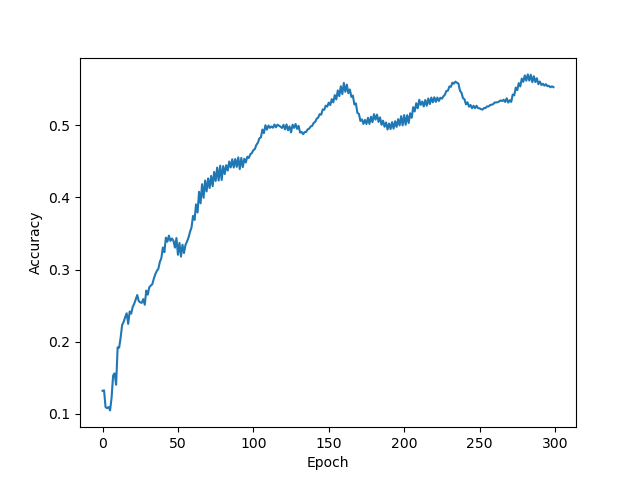
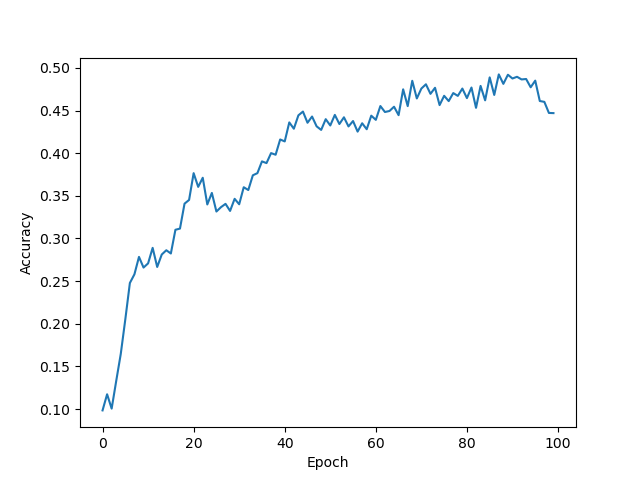
fixed the problems

diff --git a/code/simulation_code/test_gradient_est.py b/code/simulation_code/test_gradient_est.py
@@ -28,8 +28,7 @@ device_used = torch.device('cuda' if torch.cuda.is_available() else 'cpu')
 if device_used != torch.device('cuda'):
     print(f'CUDA not available, have to use {device_used}')
 # Set hyperparameters
-seed = 1 # Seed for PRNGs 
-N_CLIENTS = 1 # Number of clients
+seed = 0 # Seed for PRNGs 
 random.seed(seed)
 torch.manual_seed(seed)
 np.random.seed(seed)
@@ -397,15 +396,67 @@ class client_FL():
         # This is x(t) now, since client_model has current model
         self.moving_model.set_params(self.client_model.get_params())
 
+
+def gen_rand_adj_matrix(n_clients):
+    # The created graph must be fully connected
+    is_strongly_connected = False
+    while is_strongly_connected == False:
+        # Choose random number of edges
+        num_edges = random.randint(n_clients, n_clients ** 2)
+        # Choose the random clients
+        chosen_edges = random.choices(range(0, n_clients ** 2), k = num_edges)
+        # Convert to matrix coords
+        for i, edge in enumerate(chosen_edges):
+            chosen_edges[i] = (edge // n_clients, edge % n_clients)
+
+        plain_adj_matrix = np.zeros((n_clients, n_clients))
+        # Create the matrix (binary)
+        for coord in chosen_edges:
+            i, j = coord[0], coord[1]
+            if i != j:
+                plain_adj_matrix[i][j] = 1
+        # Create the graph, make sure it's strongly connected
+        graph = nx.from_numpy_matrix(plain_adj_matrix, create_using = nx.DiGraph)
+        is_strongly_connected = nx.is_strongly_connected(graph)
+    # Only return fully connected graph
+    return plain_adj_matrix
+
+def create_clients_graph(node_list, plain_adj_matrix, aggregation_mechanism):
+    # First add neighbors, create graph concurrently
+    graph = nx.DiGraph()
+    for device in node_list:
+        i = device.client_id
+        for j in range(len(node_list)):
+            if plain_adj_matrix[i][j]:
+                device.add_out_neighbor(node_list[j])
+                graph.add_edge(i, j)
+    # Then create the adjacency matrix
+    adj_matrix = np.zeros((len(node_list), len(node_list)))
+    # for device in node_list:
+        # Connection goes from i to j, not 0 if that happens
+        # This is actually specific to the aggregation mechanism used
+        # This aggregation mechanism depends on the size of datasets of in neighbors
+        #if aggregation_mechanism == 'base':
+        #    i = device.client_id
+        #    i_neigbor_sum = sum([neighbor.dset_size for neighbor in device.in_neighbors.values()])
+        
+        # for j in device.in_neighbors.keys():
+        #    adj_matrix[j][i] = device.in_neighbors[j].dset_size / i_neigbor_sum
+        
+    # ALso make the graph
+    return plain_adj_matrix, graph
+
+
 if __name__ == '__main__':
     acc_list = []
     client_list = [client_FL(i) for i in range(N_CLIENTS)]
     [x.get_data(train_dset_split[i], valid_dset_split[i]) for x, i in zip(client_list, range(N_CLIENTS))]
     [x.init_compiled_model(NetBasic()) for x in client_list]
     [client_list[i].add_neighbor(client_list[i - 1]) for i in range(1, len(client_list))]
-    client_list[len(client_list) - 1].add_neighbor(client_list[0])
+    adj_matrix = gen_rand_adj_matrix(N_CLIENTS)
+    create_clients_graph(client_list, adj_matrix, None)
 
-    for i in range(300):
+    for i in range(100):
         [x.exchange_models() for x in client_list]
         [x.aggregate_SAB(500, 5, False) for x in client_list]
         print(f'Epoch {i}')

diff --git a/code/simulation_code/nn_FL_1.py b/code/simulation_code/nn_FL_1.py
@@ -545,7 +545,6 @@ def hash_np_arr(np_arr):
     return hex_hash_arr
 
 # Generate random adjacency matrix for a random graph
-# TODO aggregation changes the weights, see how that affects centralities
 def gen_rand_adj_matrix(n_clients):
     # The created graph must be fully connected
     is_strongly_connected = False
